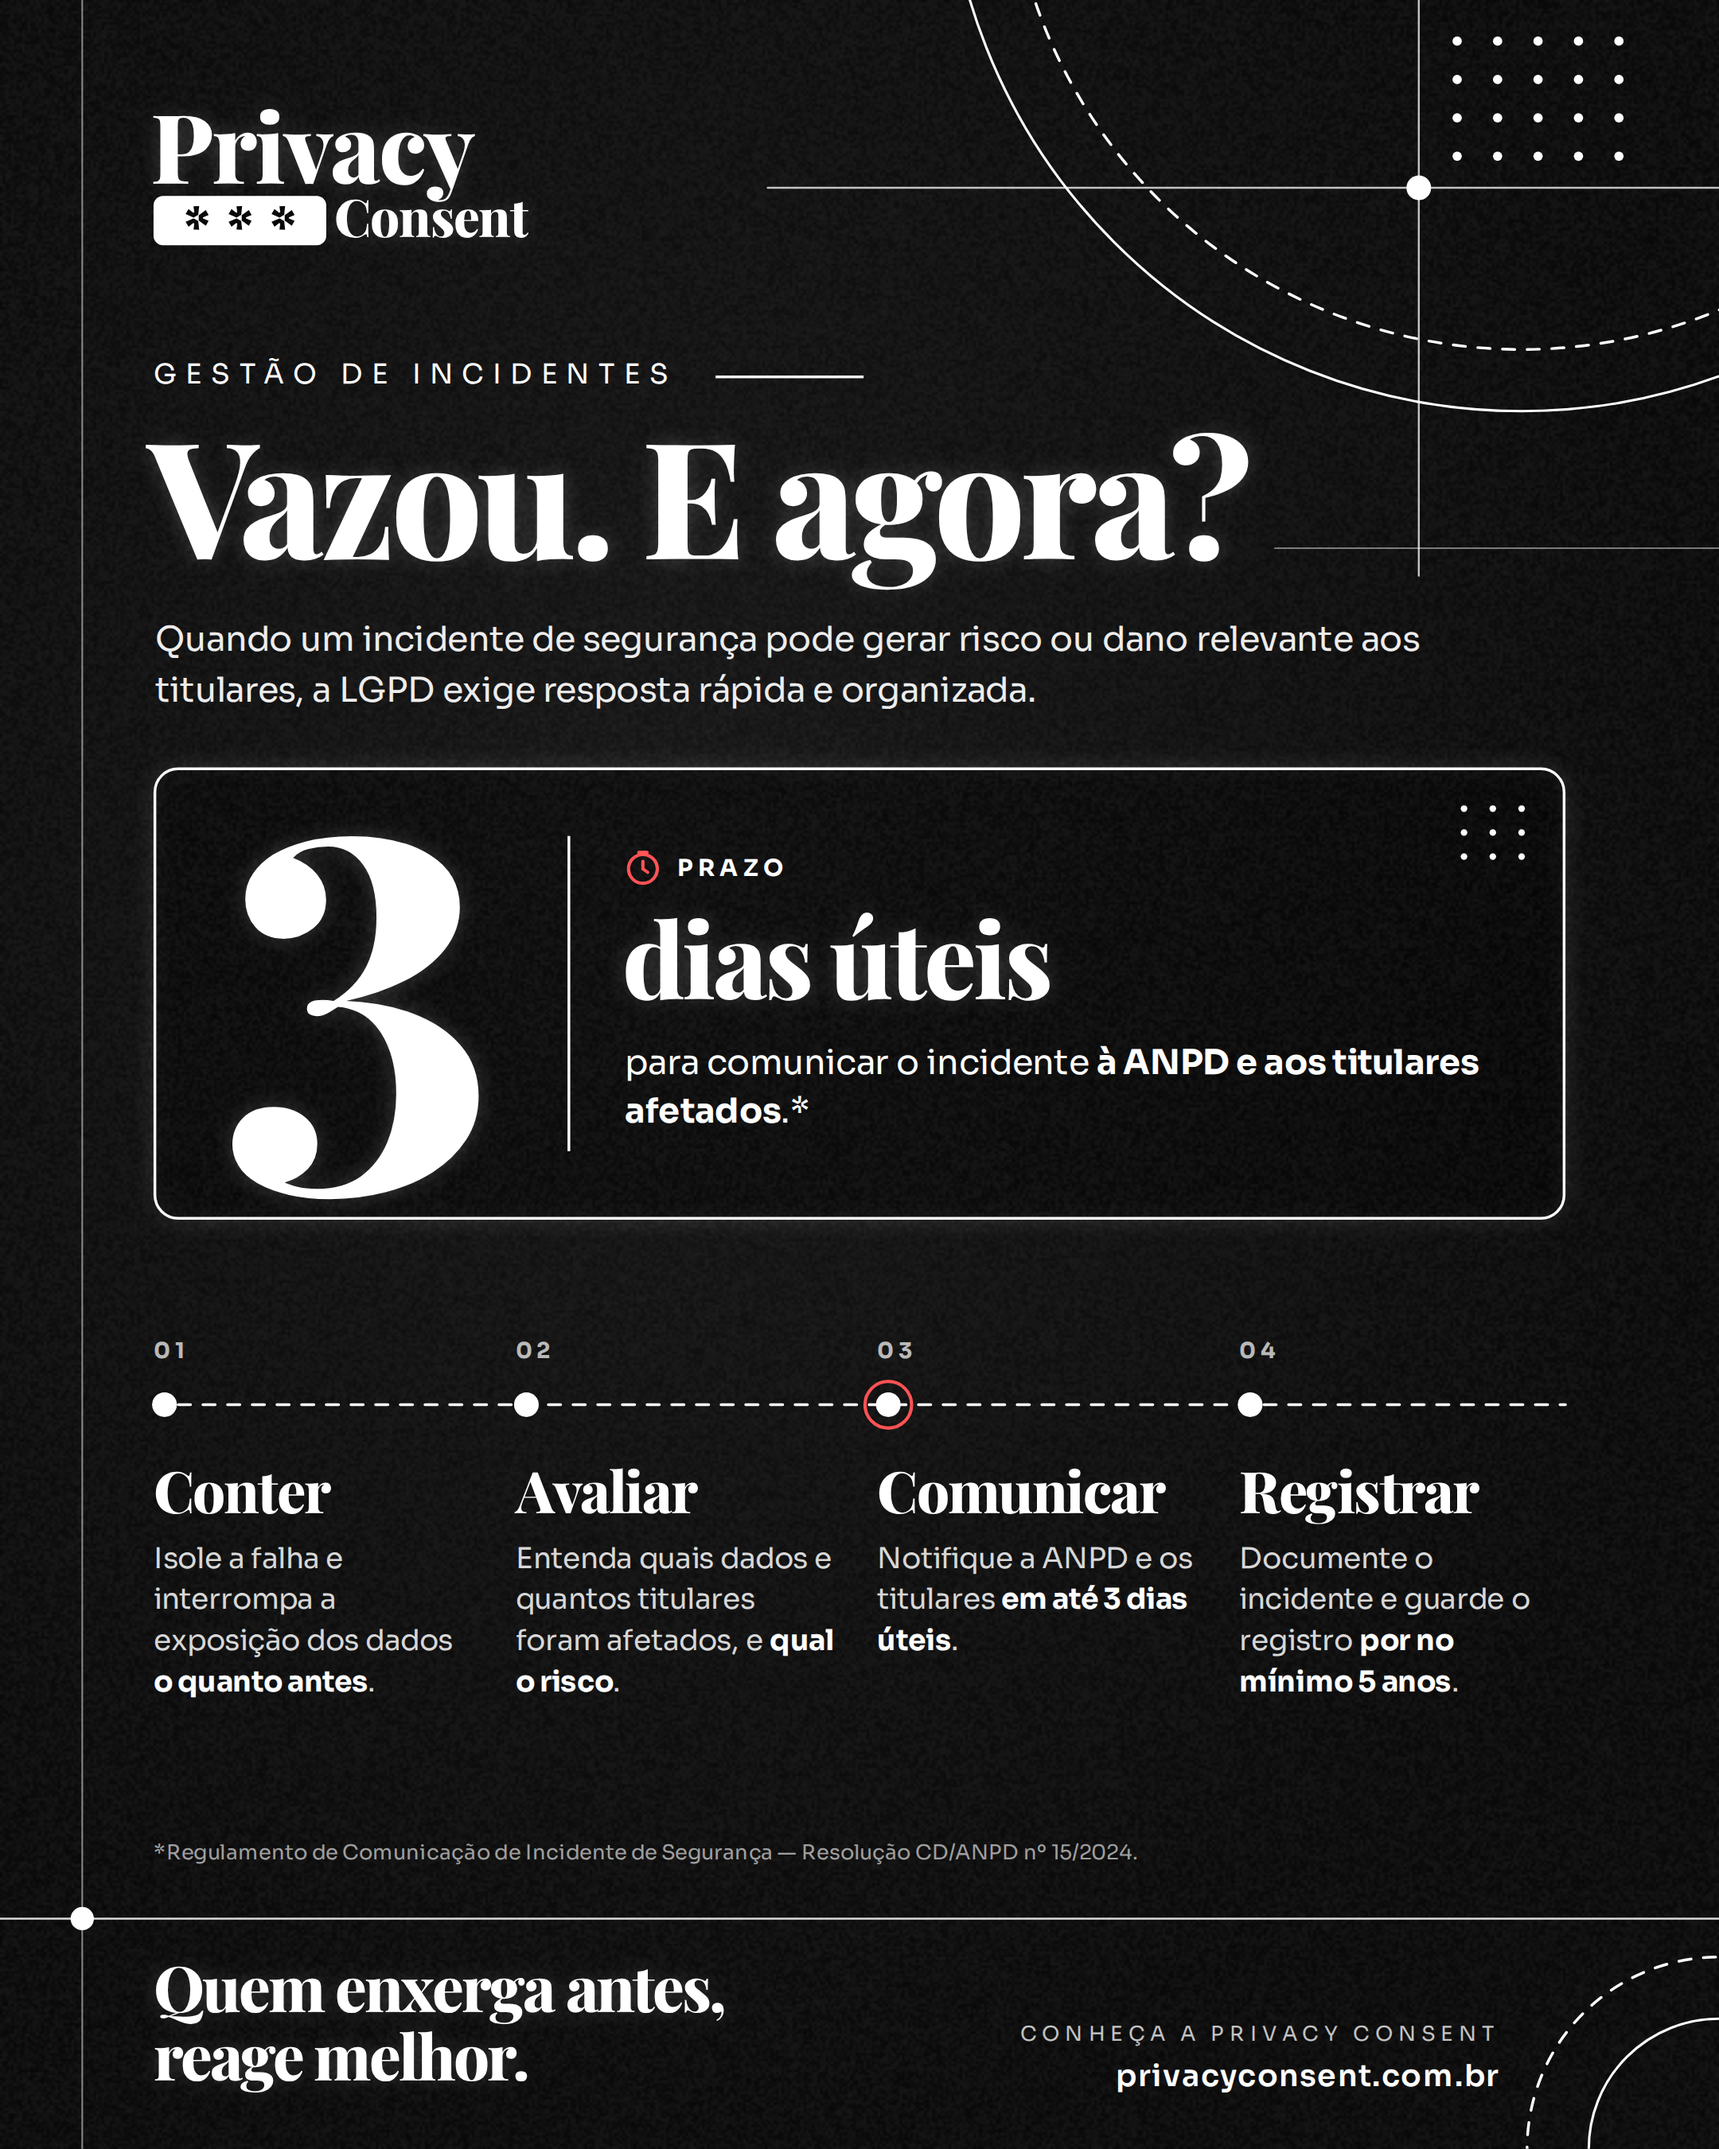
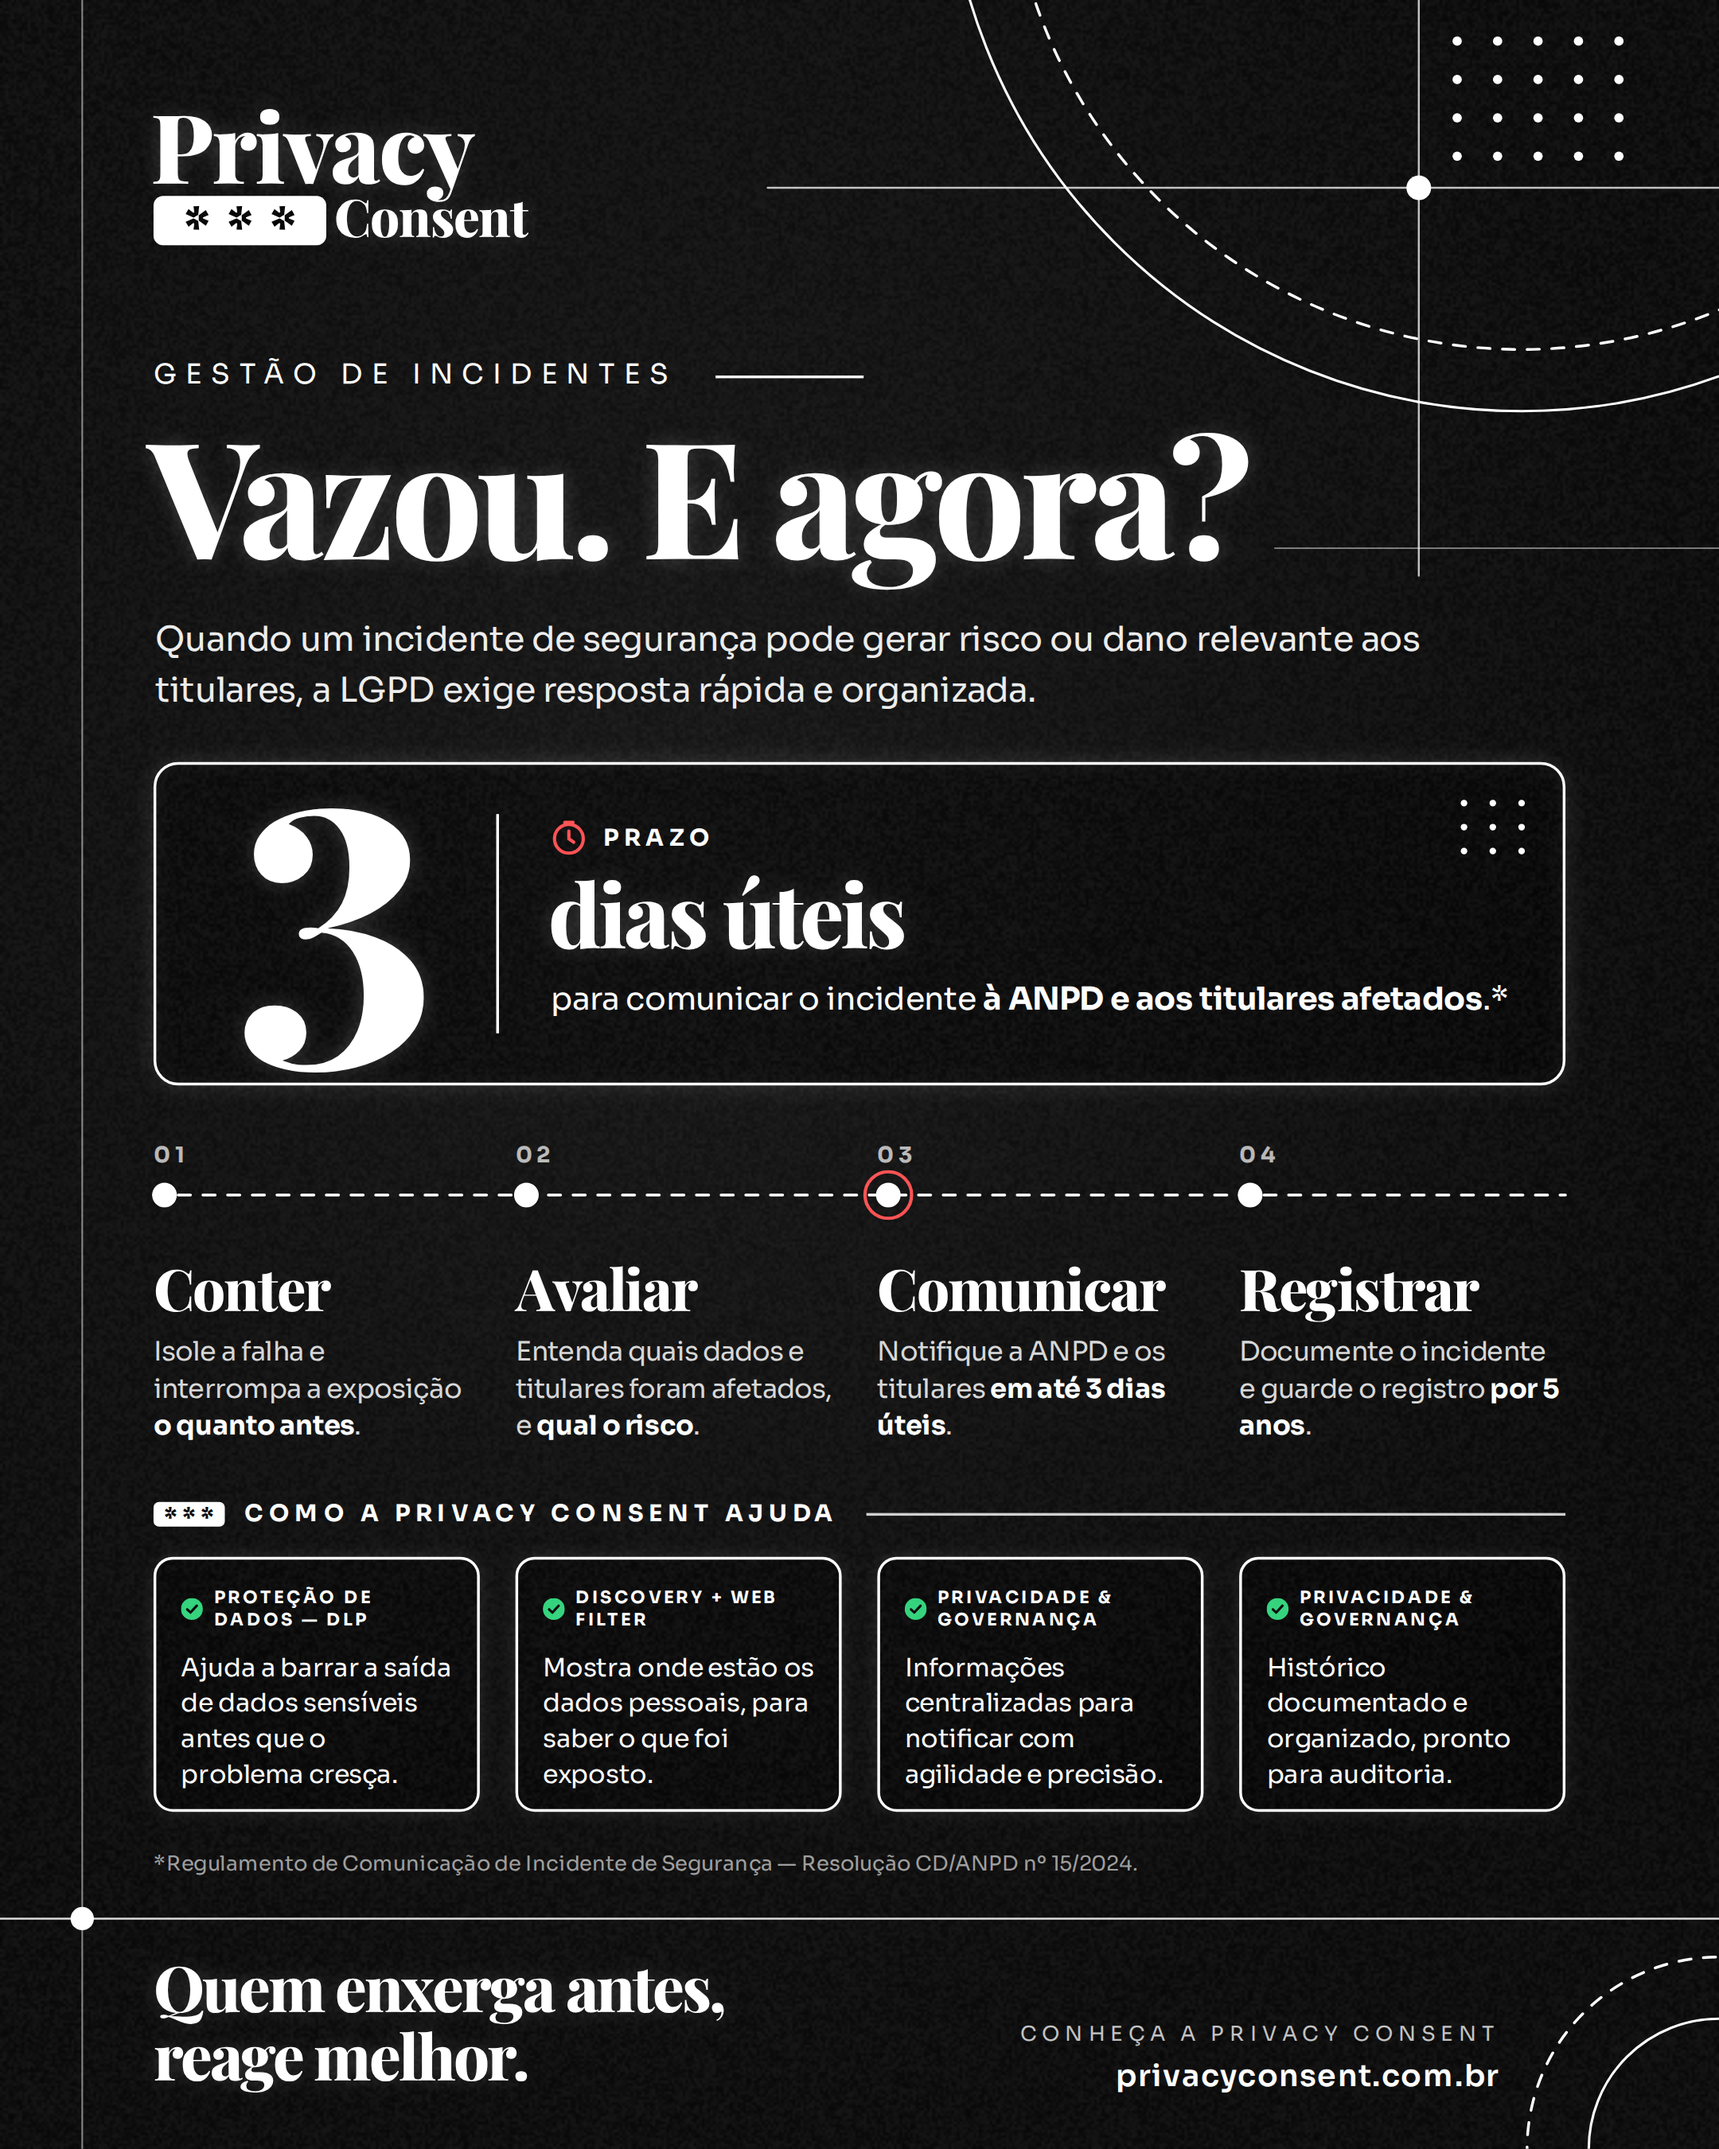
Incident post: show how Privacy Consent helps at each step
Adds a module-mapped help box under each timeline step and compacts the
deadline hero card to make room.

Claude-Session: https://claude.ai/code/session_01CNA9pLsGgXGqiNL45413r8

Changed region(s): [[0.0931, 0.5287, 0.8995, 0.8708], [0.0931, 0.3421, 0.8995, 0.5598]]

diff --git a/privacy-video/incidente.html b/privacy-video/incidente.html
@@ -29,26 +29,36 @@
   #lead { left: 113px; top: 448px; width: 960px; white-space: normal; font-size: 25px; line-height: 37px; color: #ececec; letter-spacing: -.3px; }
 
   /* hero: the deadline */
-  #hero { position: absolute; left: 112px; top: 560px; width: 1030px; height: 330px; border: 2.5px solid #fff; border-radius: 18px;
+  #hero { position: absolute; left: 112px; top: 556px; width: 1030px; height: 236px; border: 2.5px solid #fff; border-radius: 18px;
           box-shadow: 0 0 18px rgba(255,255,255,.12), inset 0 0 18px rgba(255,255,255,.05); background: rgba(0,0,0,.45); }
-  #hero .big { position: absolute; left: 44px; top: -22px; font-size: 360px; line-height: 1; letter-spacing: -10px; }
-  #hero .vdiv { position: absolute; left: 300px; top: 48px; bottom: 48px; width: 2px; background: #fff; }
-  #hero .tag { position: absolute; left: 342px; top: 58px; display: flex; align-items: center; gap: 12px;
+  #hero .big { position: absolute; left: 56px; top: -18px; font-size: 262px; line-height: 1; letter-spacing: -10px; }
+  #hero .vdiv { position: absolute; left: 248px; top: 36px; bottom: 36px; width: 2px; background: #fff; }
+  #hero .tag { position: absolute; left: 288px; top: 40px; display: flex; align-items: center; gap: 12px;
                font-family: 'Sora', sans-serif; font-weight: 700; font-size: 17px; letter-spacing: 4px; color: #fff; }
-  #hero .unit { position: absolute; left: 340px; top: 98px; font-size: 76px; letter-spacing: -2.4px; line-height: 1; }
-  #hero .what { position: absolute; left: 342px; top: 196px; width: 640px; white-space: normal; font-size: 25px; line-height: 35px; color: #fff; letter-spacing: -.3px; }
+  #hero .unit { position: absolute; left: 286px; top: 76px; font-size: 64px; letter-spacing: -2.4px; line-height: 1; }
+  #hero .what { position: absolute; left: 288px; top: 156px; width: 700px; white-space: normal; font-size: 23px; line-height: 32px; color: #fff; letter-spacing: -.3px; }
   #hero .what b { font-weight: 700; }
   #hero .dots { position: absolute; right: 26px; top: 24px; }
 
   /* timeline */
-  #steps { position: absolute; left: 112px; top: 975px; width: 1030px; height: 360px; }
+  #steps { position: absolute; left: 112px; top: 832px; width: 1030px; height: 500px; }
+  /* how Privacy Consent helps, one box per step */
+  #helpHead { position: absolute; left: 112px; top: 1094px; display: flex; align-items: center; gap: 14px;
+              font-family: 'Sora', sans-serif; font-weight: 700; font-size: 17px; letter-spacing: 4px; color: #fff; }
+  #helpHead .mini { width: 52px; height: 18px; background: #fff; border-radius: 4px; display: flex; align-items: center; justify-content: space-evenly; padding: 0 4px; }
+  #helpHead .mini span { font-family: 'Sora', sans-serif; font-weight: 700; font-size: 17px; color: #000; line-height: 1; height: 12px; letter-spacing: 0; }
+  #helpRule { position: absolute; left: 632px; top: 1104px; width: 510px; height: 1.5px; background: #fff; opacity: .8; }
+  .help { position: absolute; top: 1136px; width: 238px; height: 186px; border: 2px solid #fff; border-radius: 14px; padding: 20px 18px;
+          box-shadow: 0 0 14px rgba(255,255,255,.1); background: rgba(0,0,0,.45); }
+  .help .mod { display: flex; align-items: center; gap: 8px; font-family: 'Sora', sans-serif; font-weight: 700; font-size: 12.5px; letter-spacing: 2px; color: #fff; }
+  .help .txt { margin-top: 14px; font-family: 'Sora', sans-serif; font-size: 18.5px; line-height: 26px; color: #fff; letter-spacing: -.3px; white-space: normal; }
   .step { position: absolute; top: 0; width: 236px; }
   .step .num { font-family: 'Sora', sans-serif; font-weight: 700; font-size: 16px; letter-spacing: 3.5px; color: #fff; opacity: .7; }
-  .step .name { margin-top: 70px; font-family: 'Playfair Display', serif; font-weight: 800; font-size: 42px; letter-spacing: -1.3px; line-height: 1; color: #fff; }
-  .step .desc { margin-top: 14px; font-family: 'Sora', sans-serif; font-size: 21px; line-height: 30px; color: #d6d6d6; letter-spacing: -.25px; white-space: normal; }
+  .step .name { margin-top: 66px; font-family: 'Playfair Display', serif; font-weight: 800; font-size: 42px; letter-spacing: -1.3px; line-height: 1; color: #fff; }
+  .step .desc { margin-top: 12px; font-family: 'Sora', sans-serif; font-size: 19.5px; line-height: 27px; color: #d6d6d6; letter-spacing: -.25px; white-space: normal; }
   .step .desc b { color: #fff; font-weight: 700; }
 
-  #note { left: 112px; top: 1342px; font-size: 15px; letter-spacing: .1px; color: rgba(255,255,255,.62); }
+  #note { left: 112px; top: 1350px; font-size: 15px; letter-spacing: .1px; color: rgba(255,255,255,.62); }
 
   #closing { left: 112px; top: 1424px; font-size: 46px; letter-spacing: -1.5px; line-height: 50px; }
   #site { right: 160px; top: 1474px; font-size: 22px; letter-spacing: 1px; font-weight: 600; text-align: right; }
@@ -67,7 +77,7 @@
       <circle cx="1110" cy="-120" r="420" stroke-width="1.8"/>
       <circle cx="1110" cy="-120" r="375" stroke-width="2" stroke-dasharray="9 9"/>
       <!-- timeline rail -->
-      <line x1="112" y1="1025" x2="1142" y2="1025" stroke-width="2" stroke-dasharray="9 9"/>
+      <line x1="112" y1="872" x2="1142" y2="872" stroke-width="2" stroke-dasharray="9 9"/>
       <!-- footer -->
       <line x1="0" y1="1400" x2="1254" y2="1400" stroke-width="1.5" stroke-opacity=".85"/>
       <circle cx="1254" cy="1568" r="95" stroke-width="1.8"/>
@@ -102,6 +112,9 @@
   </div>
 
   <div id="steps"></div>
+  <div id="helpHead"><span class="mini"><span>*</span><span>*</span><span>*</span></span>COMO A PRIVACY CONSENT AJUDA</div>
+  <div id="helpRule"></div>
+  <div id="helps"></div>
 
   <div class="abs sans" id="note">*Regulamento de Comunicação de Incidente de Segurança — Resolução CD/ANPD nº 15/2024.</div>
 
@@ -113,12 +126,22 @@
 <script>
   const NS = 'http://www.w3.org/2000/svg';
   const steps = [
-    ['Conter', 'Isole a falha e interrompa a exposição dos dados <b>o quanto antes</b>.'],
-    ['Avaliar', 'Entenda quais dados e quantos titulares foram afetados, e <b>qual o risco</b>.'],
-    ['Comunicar', 'Notifique a ANPD e os titulares <b>em até 3 dias úteis</b>.'],
-    ['Registrar', 'Documente o incidente e guarde o registro <b>por no mínimo 5 anos</b>.'],
+    ['Conter', 'Isole a falha e interrompa a exposição <b>o quanto antes</b>.',
+     'PROTEÇÃO DE DADOS — DLP', 'Ajuda a barrar a saída de dados sensíveis antes que o problema cresça.'],
+    ['Avaliar', 'Entenda quais dados e titulares foram afetados, e <b>qual o risco</b>.',
+     'DISCOVERY + WEB FILTER', 'Mostra onde estão os dados pessoais, para saber o que foi exposto.'],
+    ['Comunicar', 'Notifique a ANPD e os titulares <b>em até 3 dias úteis</b>.',
+     'PRIVACIDADE & GOVERNANÇA', 'Informações centralizadas para notificar com agilidade e precisão.'],
+    ['Registrar', 'Documente o incidente e guarde o registro <b>por 5 anos</b>.',
+     'PRIVACIDADE & GOVERNANÇA', 'Histórico documentado e organizado, pronto para auditoria.'],
   ];
+  const ok = '<svg width="16" height="16" viewBox="0 0 28 28" style="flex:none"><circle cx="14" cy="14" r="14" fill="#2FD27A"/><path d="M8 14.6 L12.2 18.6 L20.2 9.8" fill="none" stroke="#070707" stroke-width="3.2" stroke-linecap="round" stroke-linejoin="round"/></svg>';
   const COL = 264;
+  document.getElementById('helps').innerHTML = steps.map(([, , m, t], i) => `
+    <div class="help" style="left:${112 + i * COL}px">
+      <div class="mod">${ok}${m}</div>
+      <div class="txt">${t}</div>
+    </div>`).join('');
   document.getElementById('steps').innerHTML = steps.map(([n, d], i) => `
     <div class="step" style="left:${i * COL}px">
       <div class="num">0${i + 1}</div>
@@ -130,8 +153,8 @@
   steps.forEach((_, i) => {
     const x = 112 + i * COL + 8;
     nodes.insertAdjacentHTML('beforeend', i === 2
-      ? `<circle cx="${x}" cy="1025" r="17" fill="none" stroke="#FF4D4F" stroke-width="2.4"/><circle cx="${x}" cy="1025" r="9" fill="#fff"/>`
-      : `<circle cx="${x}" cy="1025" r="9" fill="#fff"/>`);
+      ? `<circle cx="${x}" cy="872" r="17" fill="none" stroke="#FF4D4F" stroke-width="2.4"/><circle cx="${x}" cy="872" r="9" fill="#fff"/>`
+      : `<circle cx="${x}" cy="872" r="9" fill="#fff"/>`);
   });
 
   function dots(g, x0, y0, cols, rows, dx, dy, r) {
